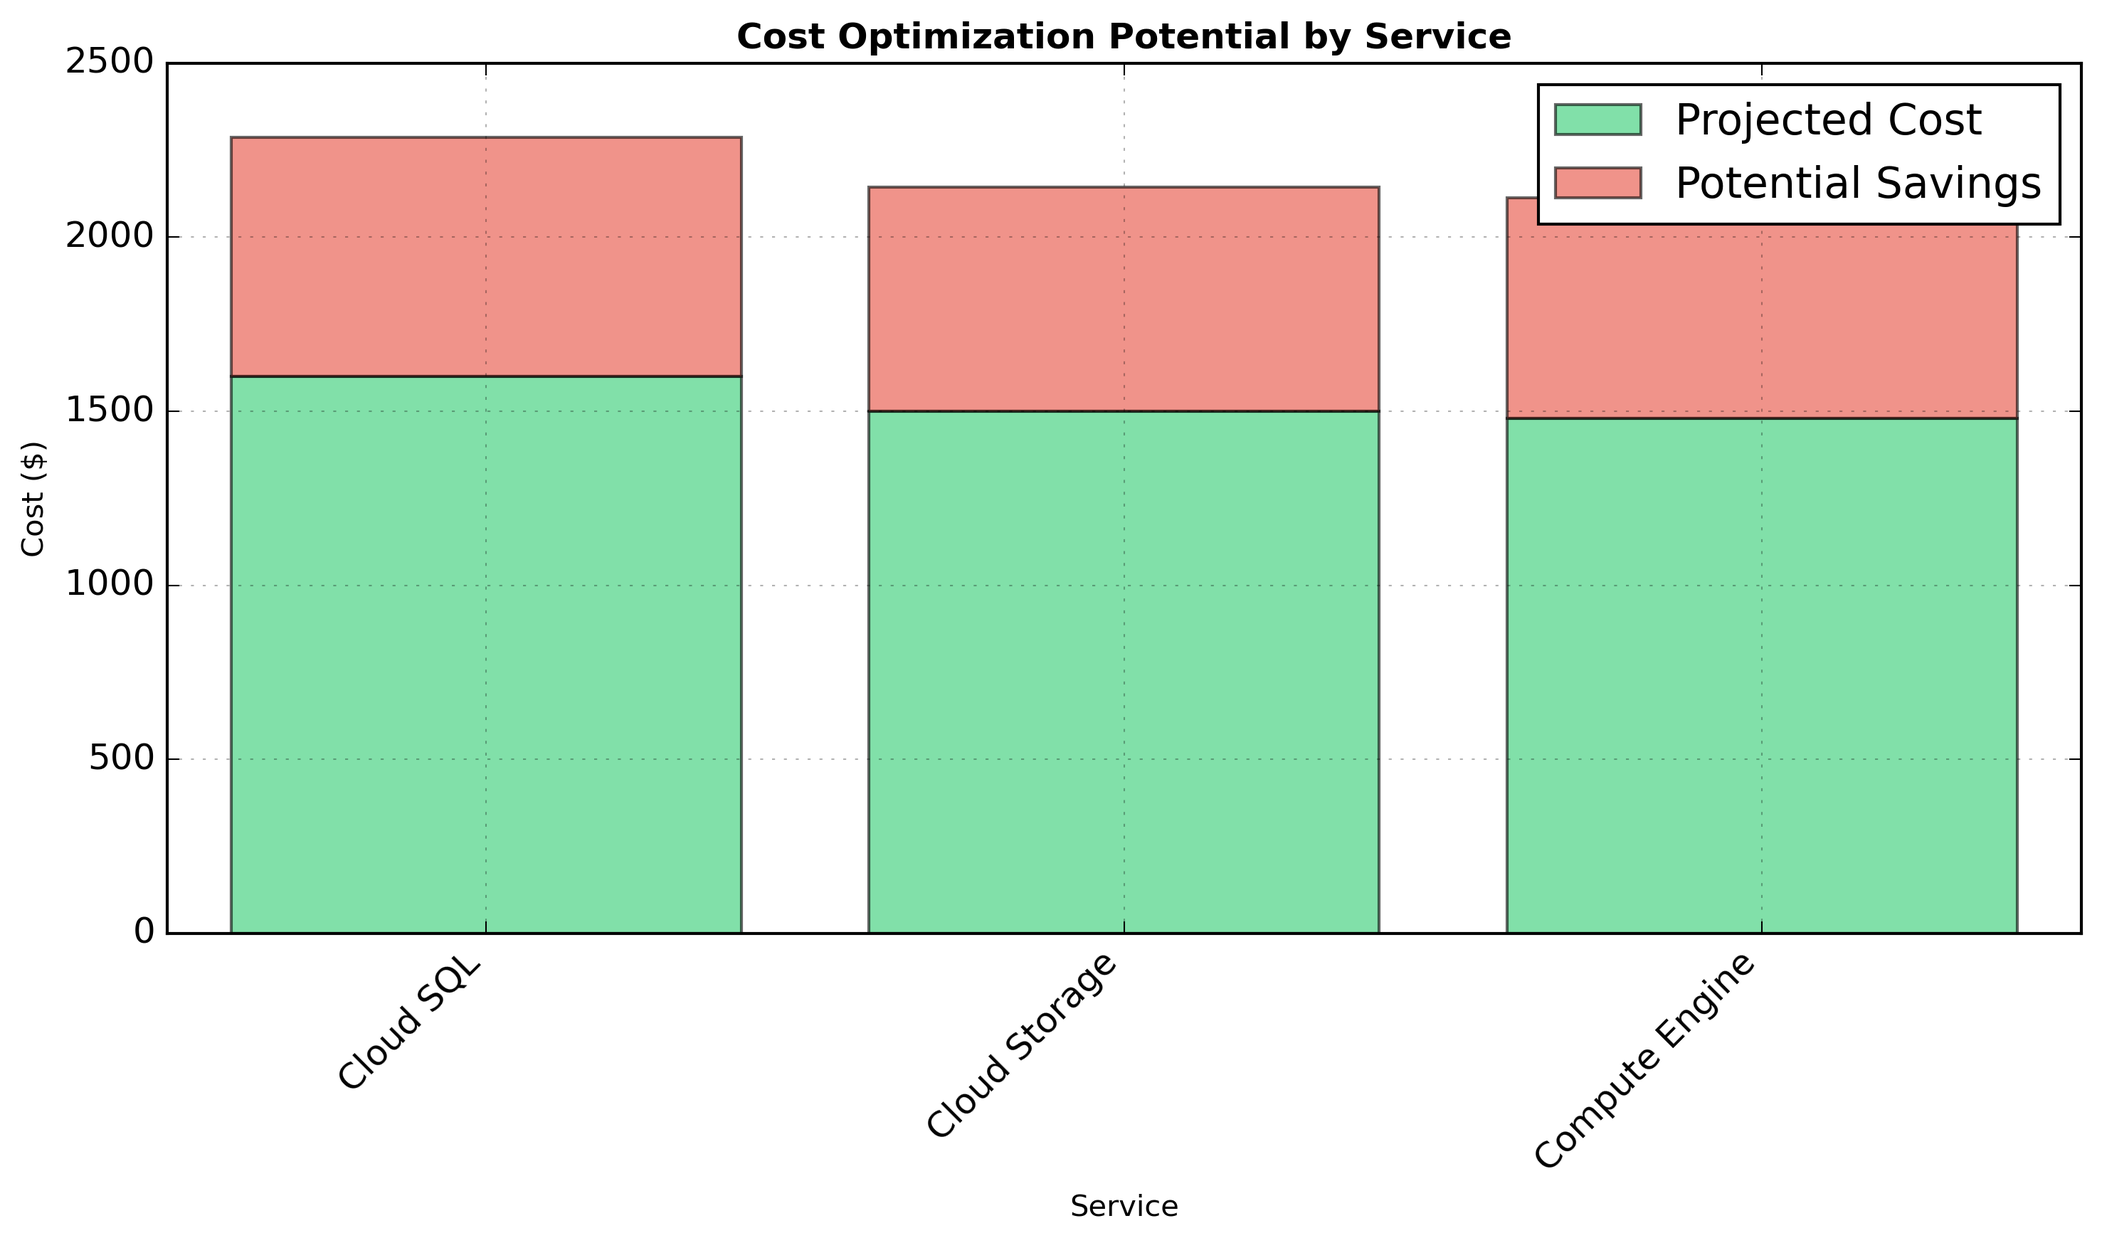
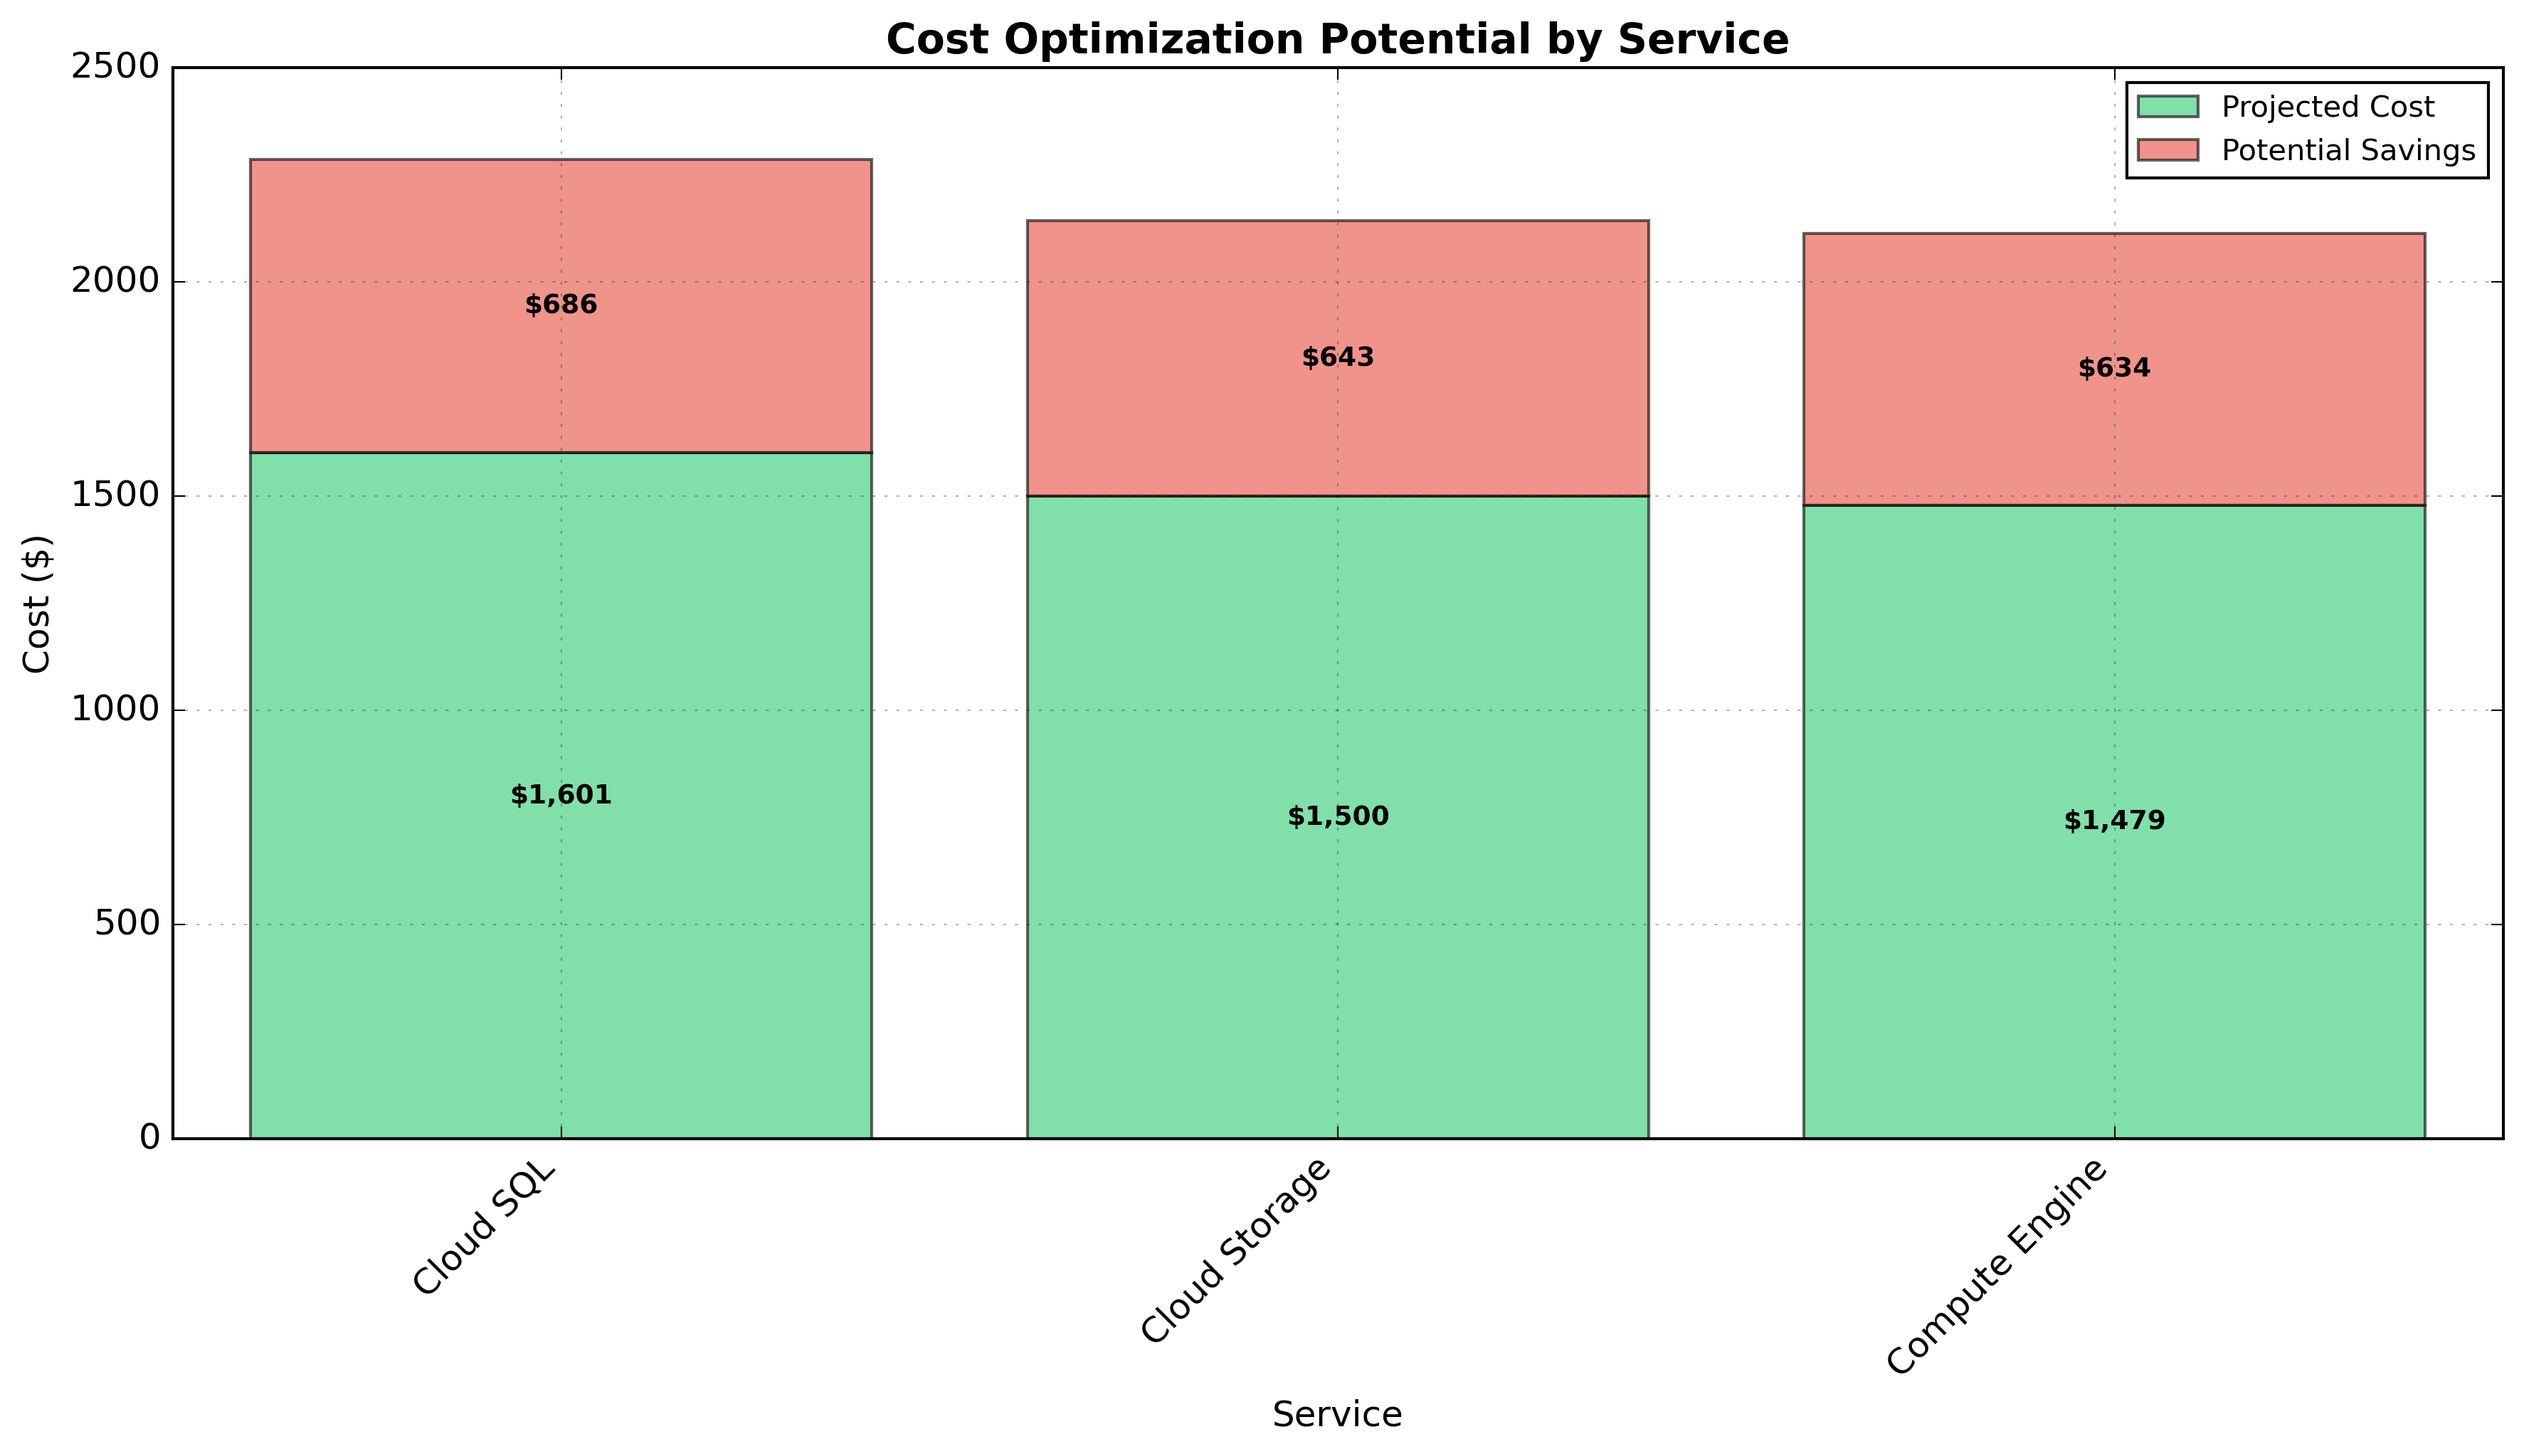
Initial commit for cloud cost optimization project

diff --git a/src/cloud_cost_optimizer/visualizations/cost_visualizer.py b/src/cloud_cost_optimizer/visualizations/cost_visualizer.py
@@ -8,6 +8,53 @@ class CostVisualizer:
     def __init__(self):
         plt.style.use('classic')
         self.colors = ['#2ecc71', '#3498db', '#9b59b6', '#e74c3c', '#34495e', '#f1c40f']
+        
+    def plot_optimization_potential(self, cost_table: pd.DataFrame, recommendations: list):
+        """Create a visualization of potential cost savings with numbers on the bars"""
+        fig, ax = plt.subplots(figsize=(12, 7))
+        
+        services = []
+        current_costs = []
+        potential_savings = []
+        
+        for rec in recommendations:
+            service = rec['service']
+            current_cost = cost_table[cost_table['Service description'] == service]['Cost ($)'].sum()
+            saving_pct = float(rec['potential_savings'].rstrip('%')) / 100
+            
+            services.append(service)
+            current_costs.append(current_cost * (1 - saving_pct))
+            potential_savings.append(current_cost * saving_pct)
+        
+        x = range(len(services))
+        bars1 = ax.bar(x, current_costs, label='Projected Cost',
+               color='#2ecc71', alpha=0.6)
+        bars2 = ax.bar(x, potential_savings, bottom=current_costs,
+               label='Potential Savings', color='#e74c3c', alpha=0.6)
+        
+        ax.set_title('Cost Optimization Potential by Service',
+                     fontsize=14, fontweight='bold')
+        ax.set_xlabel('Service', fontsize=12)
+        ax.set_ylabel('Cost ($)', fontsize=12)
+        ax.set_xticks(x)
+        ax.set_xticklabels(services, rotation=45, ha='right')
+        
+        ax.legend(fontsize=10)
+        ax.grid(True, alpha=0.3)
+        
+        def add_labels(bars):
+            for bar in bars:
+                height = bar.get_height()
+                ax.text(bar.get_x() + bar.get_width()/2, bar.get_y() + height/2,
+                        f'${height:,.0f}',
+                        ha='center', va='center', fontsize=9, fontweight='bold',
+                        color='black')
+        
+        add_labels(bars1)
+        add_labels(bars2)
+        
+        plt.tight_layout()
+        return fig    
     
     def plot_service_costs(self, cost_table: pd.DataFrame, title="Cost Distribution by Service"):
         """Create a pie chart of costs by service"""
@@ -79,42 +126,8 @@ class CostVisualizer:
         
         ax.grid(True, alpha=0.3)
         plt.tight_layout()
-        return fig
-    
-    def plot_optimization_potential(self, cost_table: pd.DataFrame, recommendations: list):
-        """Create a visualization of potential cost savings"""
-        fig, ax = plt.subplots(figsize=(10, 6))
-        
-        services = []
-        current_costs = []
-        potential_savings = []
-        
-        for rec in recommendations:
-            service = rec['service']
-            current_cost = cost_table[cost_table['Service description'] == service]['Cost ($)'].sum()
-            saving_pct = float(rec['potential_savings'].rstrip('%')) / 100
-            
-            services.append(service)
-            current_costs.append(current_cost * (1 - saving_pct))
-            potential_savings.append(current_cost * saving_pct)
-        
-        x = range(len(services))
-        ax.bar(x, current_costs, label='Projected Cost',
-               color='#2ecc71', alpha=0.6)
-        ax.bar(x, potential_savings, bottom=current_costs,
-               label='Potential Savings', color='#e74c3c', alpha=0.6)
-        
-        ax.set_title('Cost Optimization Potential by Service', 
-                    fontsize=12, fontweight='bold')
-        ax.set_xlabel('Service', fontsize=10)
-        ax.set_ylabel('Cost ($)', fontsize=10)
-        ax.set_xticks(x)
-        ax.set_xticklabels(services, rotation=45, ha='right')
-        
-        ax.legend()
-        ax.grid(True, alpha=0.3)
-        plt.tight_layout()
-        return fig
+        return fig    
+
     
     def plot_usage_patterns(self, cost_table: pd.DataFrame):
         """Create a heatmap of usage patterns"""
